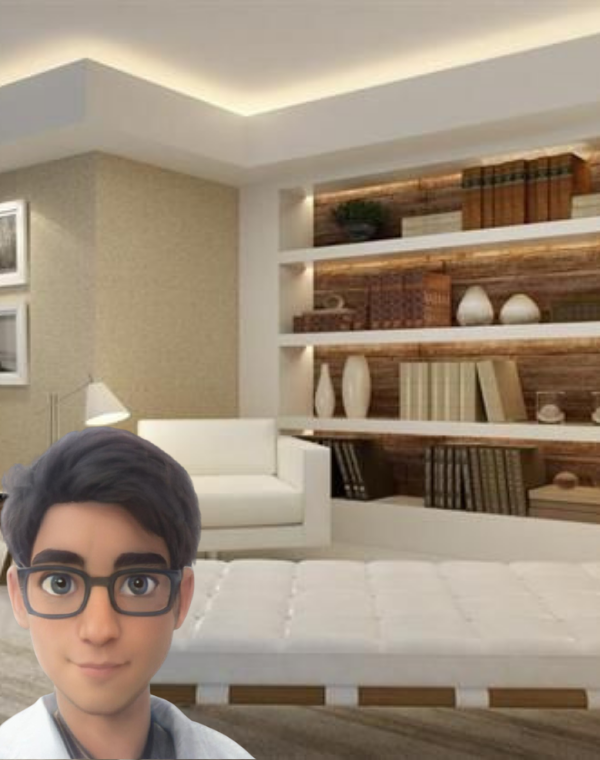
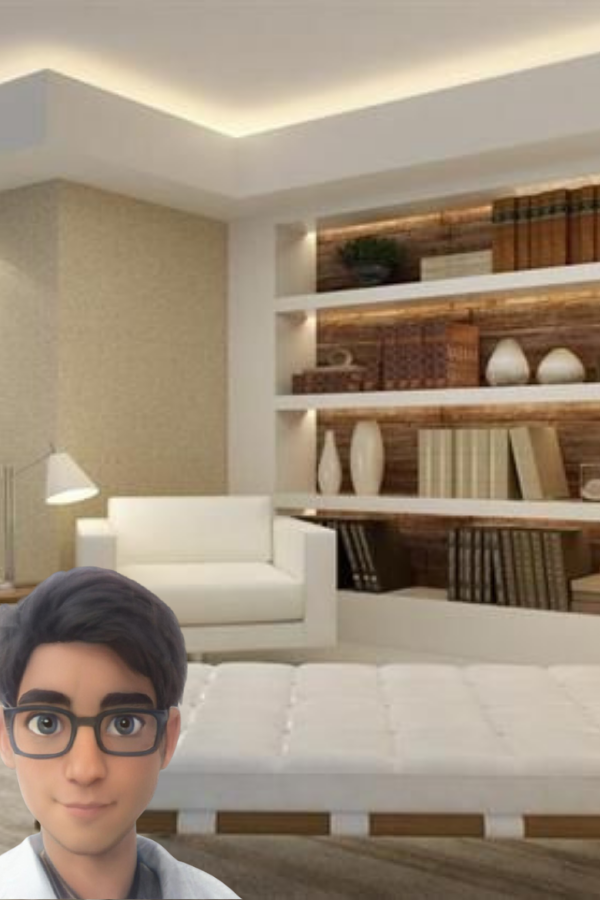
responsividade
modificação final

diff --git a/index.html b/index.html
@@ -18,13 +18,11 @@
       }
       @media (max-width: 1000px) {
         body {
-          background-image: url(midia/fundo3.png);
+          background-image: url(midia/fundo2.png);
           background-repeat: no-repeat;
           background-size: cover;
         }
         #iframe {
-          width: 500px;
-          height: 700px;
           left: 500px;
           top: 450px;
         }
